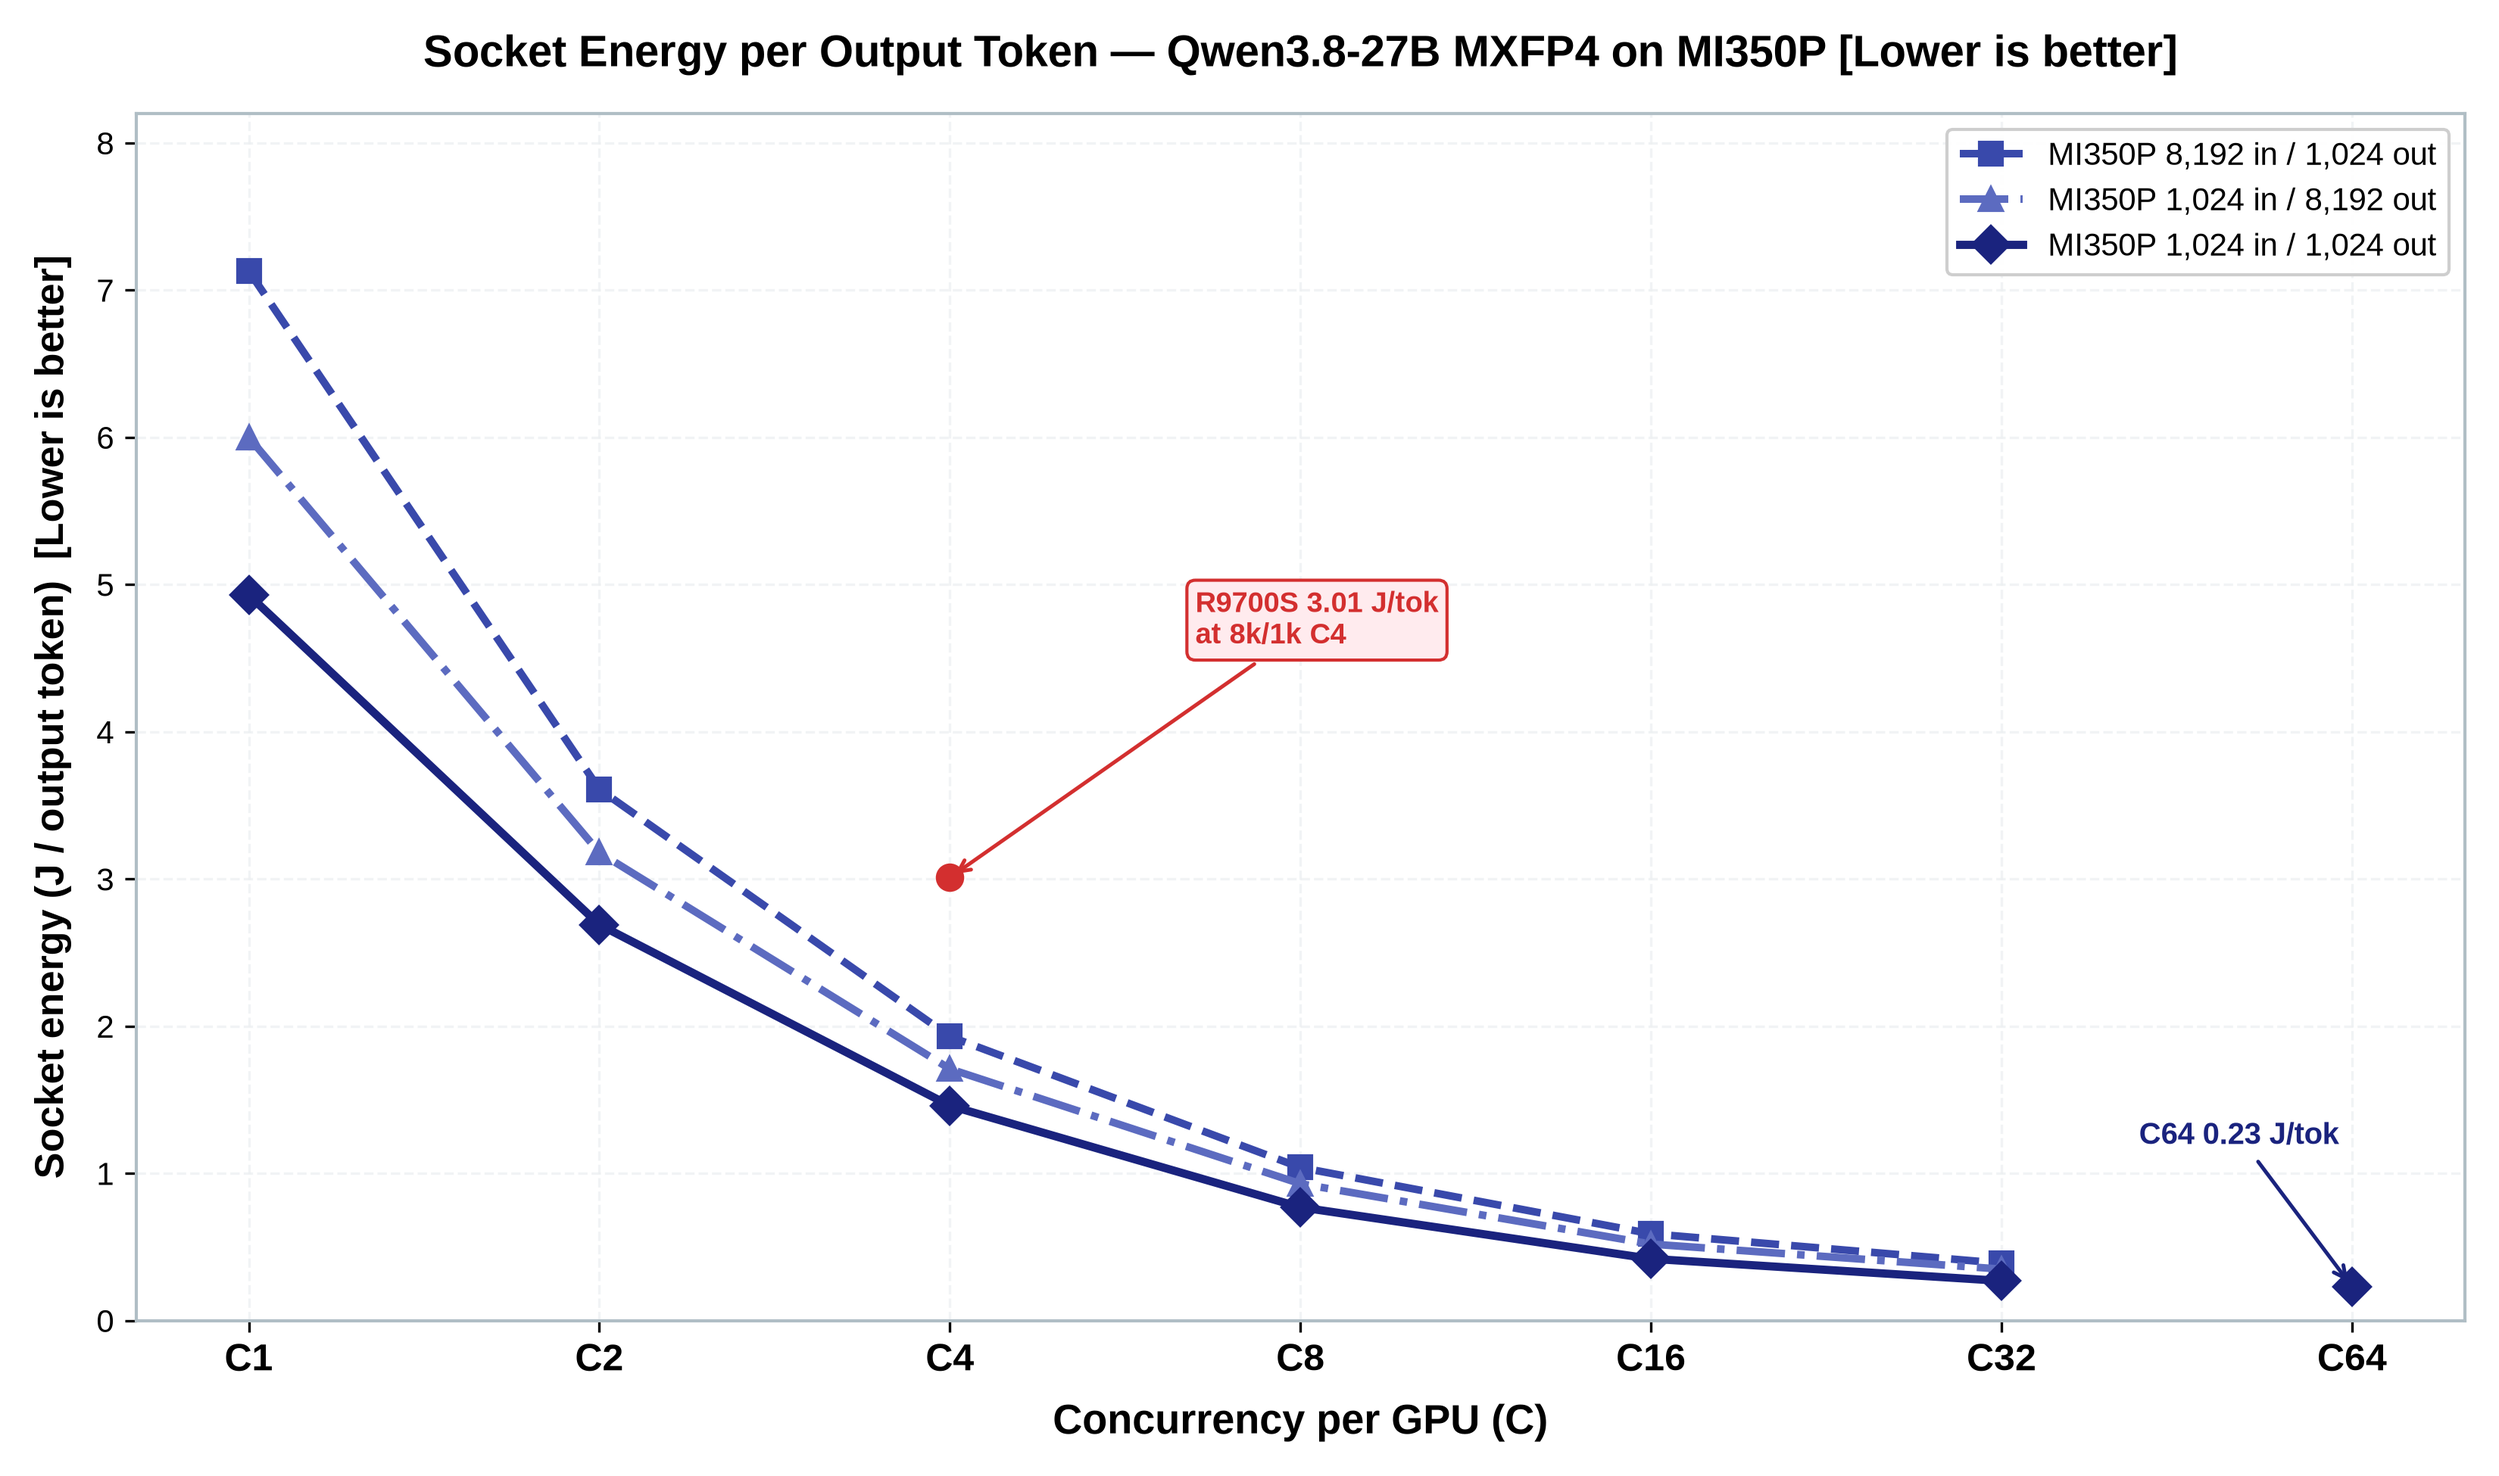
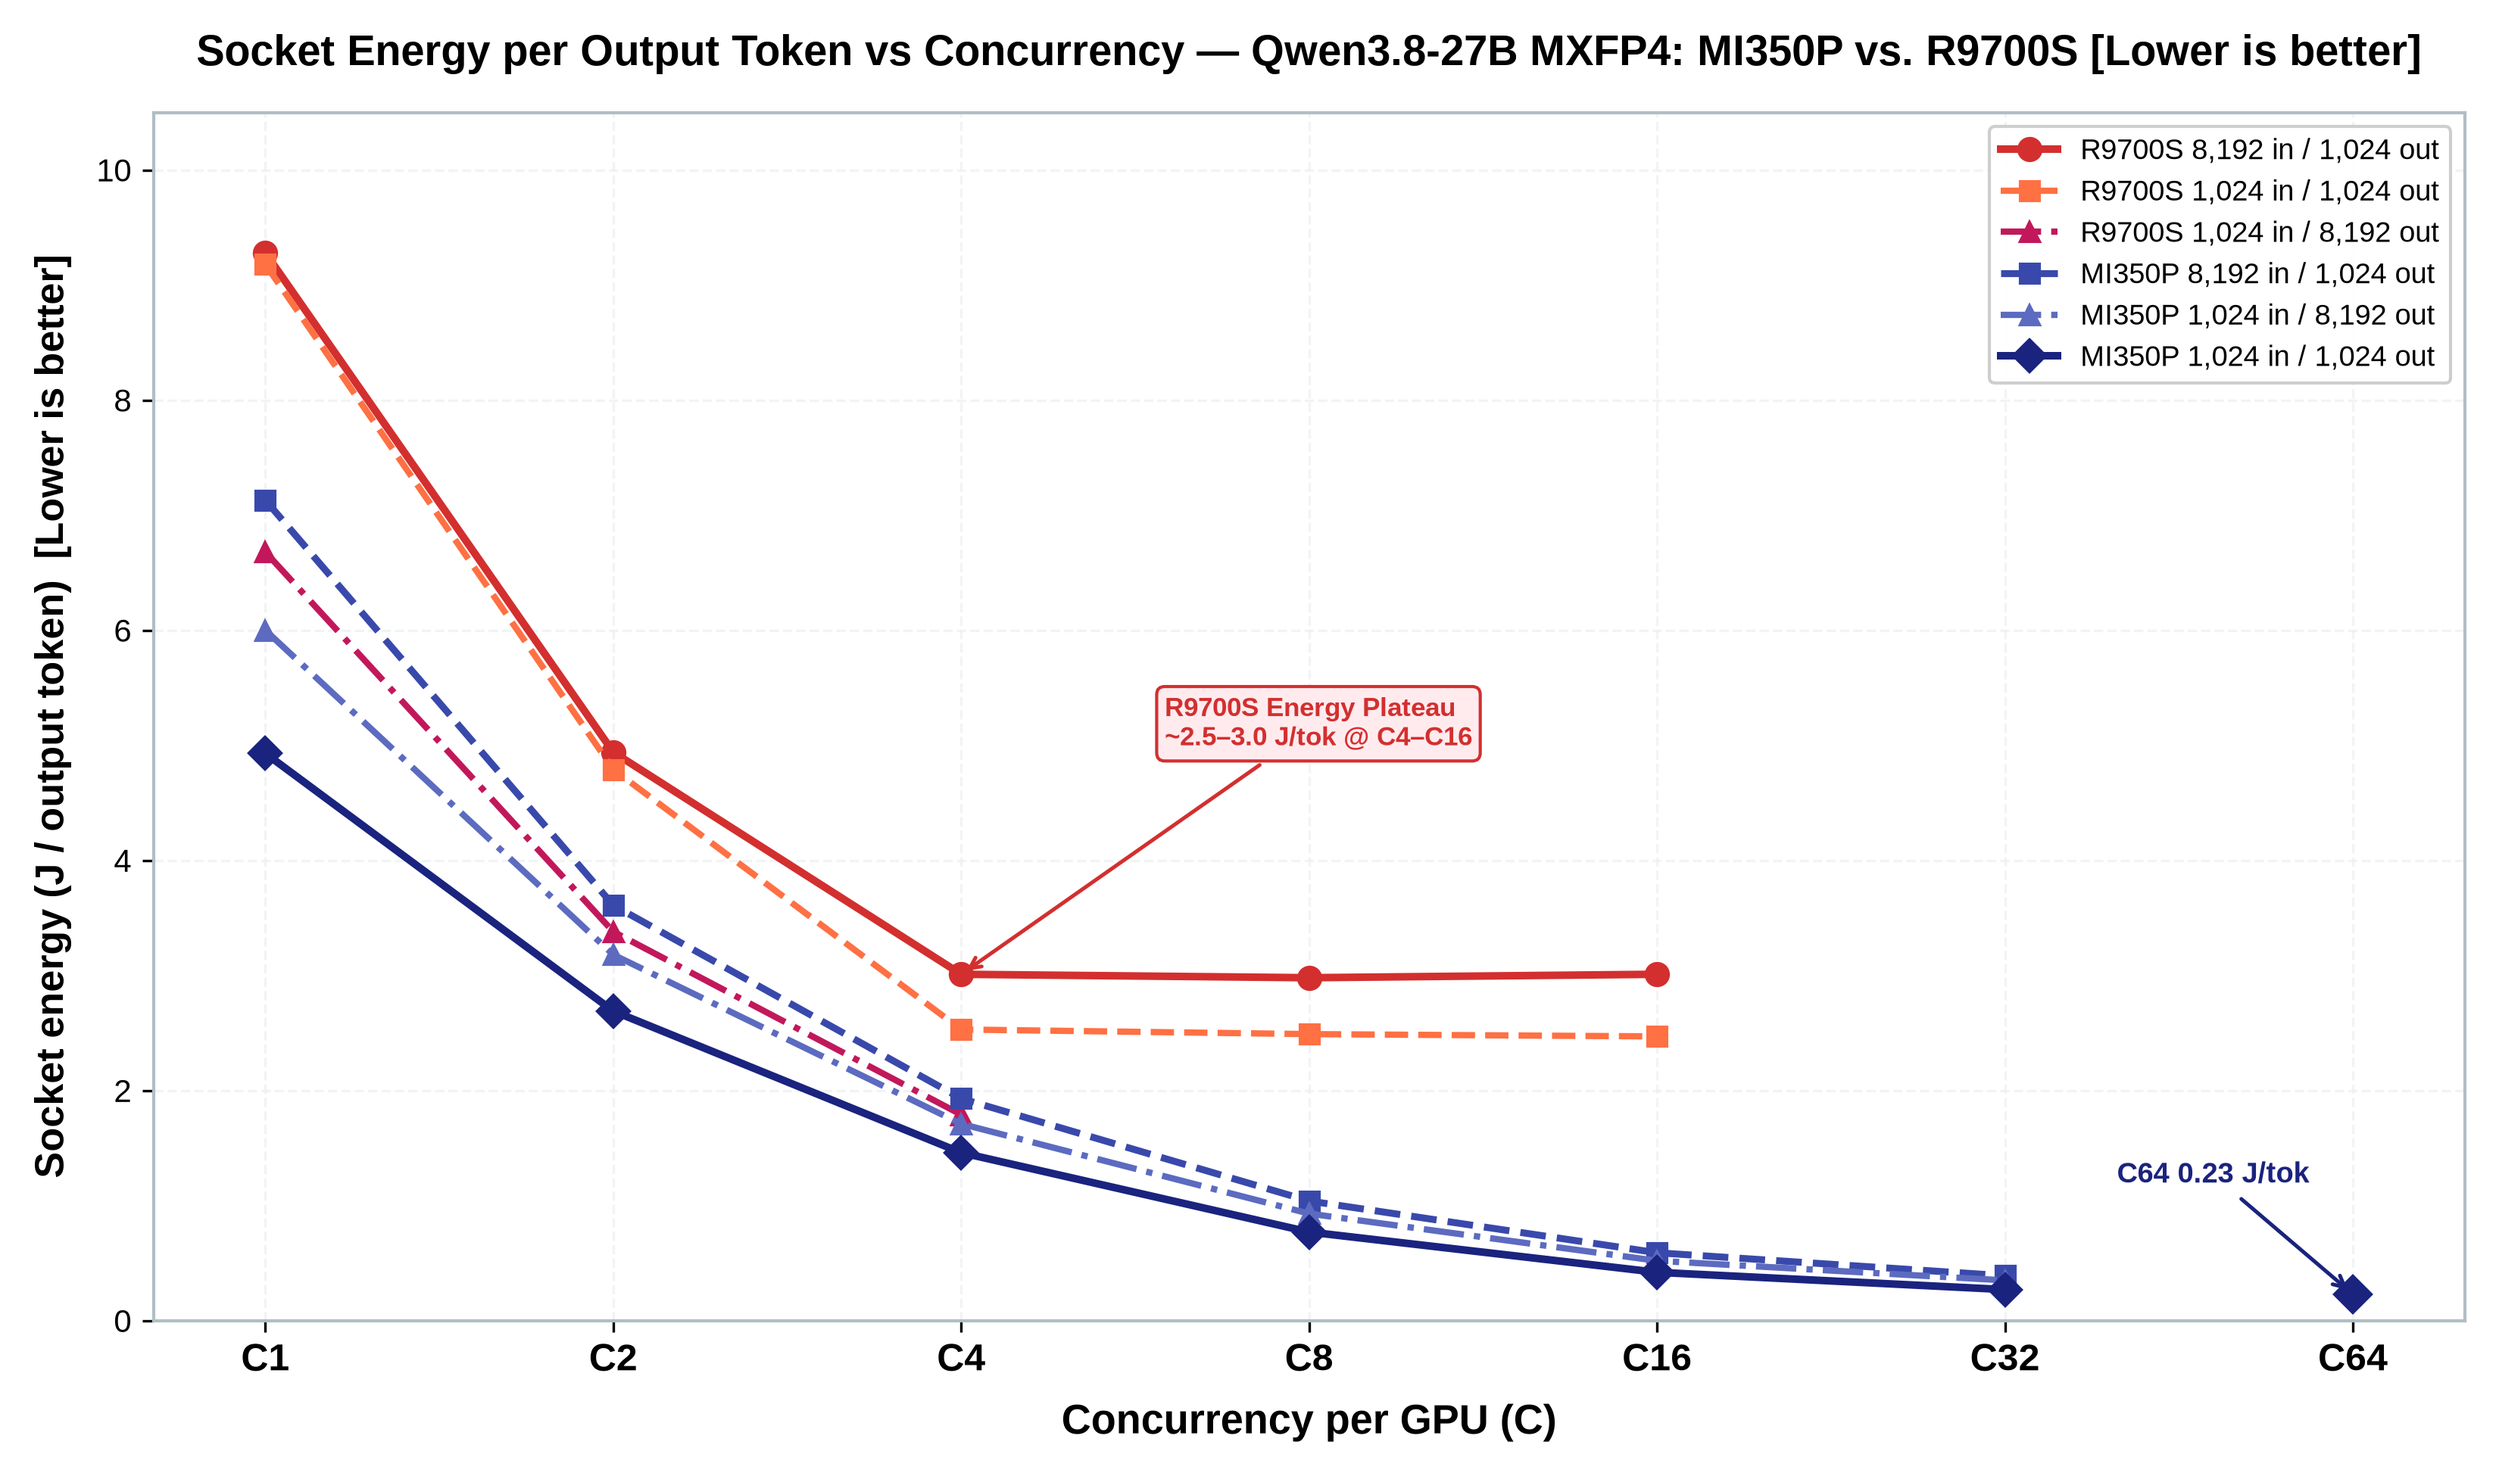
feat(plots,docs): add multi-concurrency R9700S curves to socket energy plot and update documentation

diff --git a/scripts/generate_tco_plots.py b/scripts/generate_tco_plots.py
@@ -888,35 +888,49 @@ def plot_slo_qualified_goodput():
 def plot_joules_per_token():
     fig, ax = plt.subplots(figsize=(11, 6.5), dpi=300)
 
-    c = [1, 2, 4, 8, 16, 32]
-    j_1k = [4.93, 2.69, 1.46, 0.77, 0.42, 0.27]
-    j_8k = [7.13, 3.61, 1.93, 1.04, 0.59, 0.39]
-    j_long = [6.00, 3.18, 1.71, 0.93, 0.52, 0.35]
+    # MI350P empirical data
+    c_mi350 = [1, 2, 4, 8, 16, 32]
+    j_mi350_1k = [4.93, 2.69, 1.46, 0.77, 0.42, 0.27]
+    j_mi350_8k = [7.13, 3.61, 1.93, 1.04, 0.59, 0.39]
+    j_mi350_long = [6.00, 3.18, 1.71, 0.93, 0.52, 0.35]
 
-    ax.plot(c, j_8k, "s--", color="#3949AB", lw=2.4, ms=7, label="MI350P 8,192 in / 1,024 out")
-    ax.plot(c, j_long, "^-.", color="#5C6BC0", lw=2.4, ms=7, label="MI350P 1,024 in / 8,192 out")
-    ax.plot(c, j_1k, "D-", color=COLOR_MI350P_PROD, lw=2.6, ms=8, label="MI350P 1,024 in / 1,024 out")
+    # R9700S empirical data from power-of-two sweeps
+    c_r9700 = [1, 2, 4, 8, 16]
+    j_r9700_8k = [9.28, 4.94, 3.01, 2.98, 3.01]       # 8,192 In / 1,024 Out
+    j_r9700_1k = [9.18, 4.79, 2.53, 2.49, 2.47]       # 1,024 In / 1,024 Out
+    c_r9700_long = [1, 2, 4]
+    j_r9700_long = [6.68, 3.38, 1.79]                  # 1,024 In / 8,192 Out
+
+    # Plot R9700S curves
+    ax.plot(c_r9700, j_r9700_8k, "o-", color=COLOR_R9700S_PEAK, lw=2.4, ms=7, label="R9700S 8,192 in / 1,024 out")
+    ax.plot(c_r9700, j_r9700_1k, "s--", color=COLOR_R9700S_SLA, lw=2.0, ms=6, label="R9700S 1,024 in / 1,024 out")
+    ax.plot(c_r9700_long, j_r9700_long, "^-.", color="#C2185B", lw=2.0, ms=6, label="R9700S 1,024 in / 8,192 out")
+
+    # Plot MI350P curves
+    ax.plot(c_mi350, j_mi350_8k, "s--", color="#3949AB", lw=2.2, ms=6, label="MI350P 8,192 in / 1,024 out")
+    ax.plot(c_mi350, j_mi350_long, "^-.", color="#5C6BC0", lw=2.0, ms=6, label="MI350P 1,024 in / 8,192 out")
+    ax.plot(c_mi350, j_mi350_1k, "D-", color=COLOR_MI350P_PROD, lw=2.4, ms=7, label="MI350P 1,024 in / 1,024 out")
     ax.plot([64], [0.23], "D", color=COLOR_MI350P_PROD, ms=8)
 
-    ax.annotate("C64 0.23 J/tok", xy=(64, 0.23), xytext=(42, 1.2),
+    # Annotations
+    ax.annotate("C64 0.23 J/tok", xy=(64, 0.23), xytext=(40, 1.2),
                 arrowprops=dict(arrowstyle="->", color=COLOR_MI350P_PROD, lw=1.2),
-                fontweight="bold", color=COLOR_MI350P_PROD, fontsize=9.5)
-    ax.annotate("R9700S 3.01 J/tok\nat 8k/1k C4", xy=(4, 3.01), xytext=(6.5, 4.6),
+                fontweight="bold", color=COLOR_MI350P_PROD, fontsize=9.0)
+    ax.annotate("R9700S Energy Plateau\n~2.5–3.0 J/tok @ C4–C16", xy=(4, 3.01), xytext=(6.0, 5.0),
                 arrowprops=dict(arrowstyle="->", color=COLOR_R9700S_PEAK, lw=1.2),
                 bbox=dict(boxstyle="round,pad=0.3", facecolor="#FFEBEE", edgecolor=COLOR_R9700S_PEAK),
-                fontweight="bold", color=COLOR_R9700S_PEAK, fontsize=9.0)
-    ax.plot([4], [3.01], "o", color=COLOR_R9700S_PEAK, ms=8)
+                fontweight="bold", color=COLOR_R9700S_PEAK, fontsize=8.5)
 
     ax.set_xscale("log", base=2)
     ax.set_xticks([1, 2, 4, 8, 16, 32, 64])
     ax.set_xticklabels(["C1", "C2", "C4", "C8", "C16", "C32", "C64"], fontsize=12, fontweight="bold")
     ax.set_xlabel("Concurrency per GPU (C)", fontsize=13, fontweight="bold", labelpad=8)
     ax.set_ylabel("Socket energy (J / output token)  [Lower is better]", fontsize=12.5, fontweight="bold", labelpad=8)
-    ax.set_title("Socket Energy per Output Token — Qwen3.8-27B MXFP4 on MI350P [Lower is better]", fontsize=14, fontweight="bold", pad=15)
-    ax.set_ylim(0, 8.2)
+    ax.set_title("Socket Energy per Output Token vs Concurrency — Qwen3.8-27B MXFP4: MI350P vs. R9700S [Lower is better]", fontsize=13.5, fontweight="bold", pad=15)
+    ax.set_ylim(0, 10.5)
     ax.set_xlim(0.8, 80)
     ax.grid(True, which="both", linestyle="--", alpha=0.7)
-    ax.legend(loc="upper right", frameon=True, framealpha=0.95, facecolor="white", fontsize=10)
+    ax.legend(loc="upper right", frameon=True, framealpha=0.95, facecolor="white", fontsize=9.0)
 
     plt.tight_layout()
     output_path = os.path.join(OUTPUT_DIR, "11_joules_per_token.png")

diff --git a/docs/TCO.md b/docs/TCO.md
@@ -328,9 +328,15 @@ The R9700S rates are a 64 CU result. They are not an R9600D measurement.
 | 1,024 in / 8,192 out | 6.00 | 3.18 | 1.71 | 0.93 | 0.52 | 0.35 | — |
 | 1,024 in / 1,024 out | 4.93 | 2.69 | 1.46 | 0.77 | 0.42 | 0.27 | 0.23 |
 
+| J / output token, one R9700S | C1 | C2 | C4 | C8 | C16 |
+|---|---:|---:|---:|---:|---:|
+| 8,192 in / 1,024 out | 9.28 | 4.94 | 3.01 | 2.98 | 3.01 |
+| 1,024 in / 8,192 out | 6.68 | 3.38 | 1.79 | — | — |
+| 1,024 in / 1,024 out | 9.18 | 4.79 | 2.53 | 2.49 | 2.47 |
+
 ![Socket energy per output token](figures/tco/11_joules_per_token.png)
 
-R9700S on the same shapes is **3.01 J/tok** at 8,192/1,024 C4 and **1.79 J/tok** at 1,024/8,192 C4. MI350P is lower on joules per token at those cells (1.93 and 1.71). Electricity is still a few percent of the 3-year TCO, so the dollar-per-token ranking above does not follow the joule ranking.
+At low concurrency ($C = 1$), static baseline system power dominates (184–226 W over a single ~33 tok/s stream), yielding ~9.2 J/tok for R9700S and 4.9–7.1 J/tok for MI350P. As concurrency increases to $C = 2 \dots 4$, energy efficiency improves dramatically on both platforms: R9700S drops to **1.79–3.01 J/tok** at $C=4$. Beyond $C \ge 4$, R9700S energy consumption plateaus at **~2.5–3.0 J/tok** as GDDR6 memory bandwidth reaches saturation and surplus requests enter admission queueing. In contrast, MI350P leverages its massive 4.0 TB/s HBM3E bandwidth to continually scale concurrency, reducing socket energy to **0.23 J/tok at $C=64$**. Electricity represents only 4–6% of total 3-year server TCO, so the overall cost-per-million-tokens ranking remains favorable to R9700S at low-to-medium concurrencies despite the higher joules per token.
 
 ## How to read the servers
 
